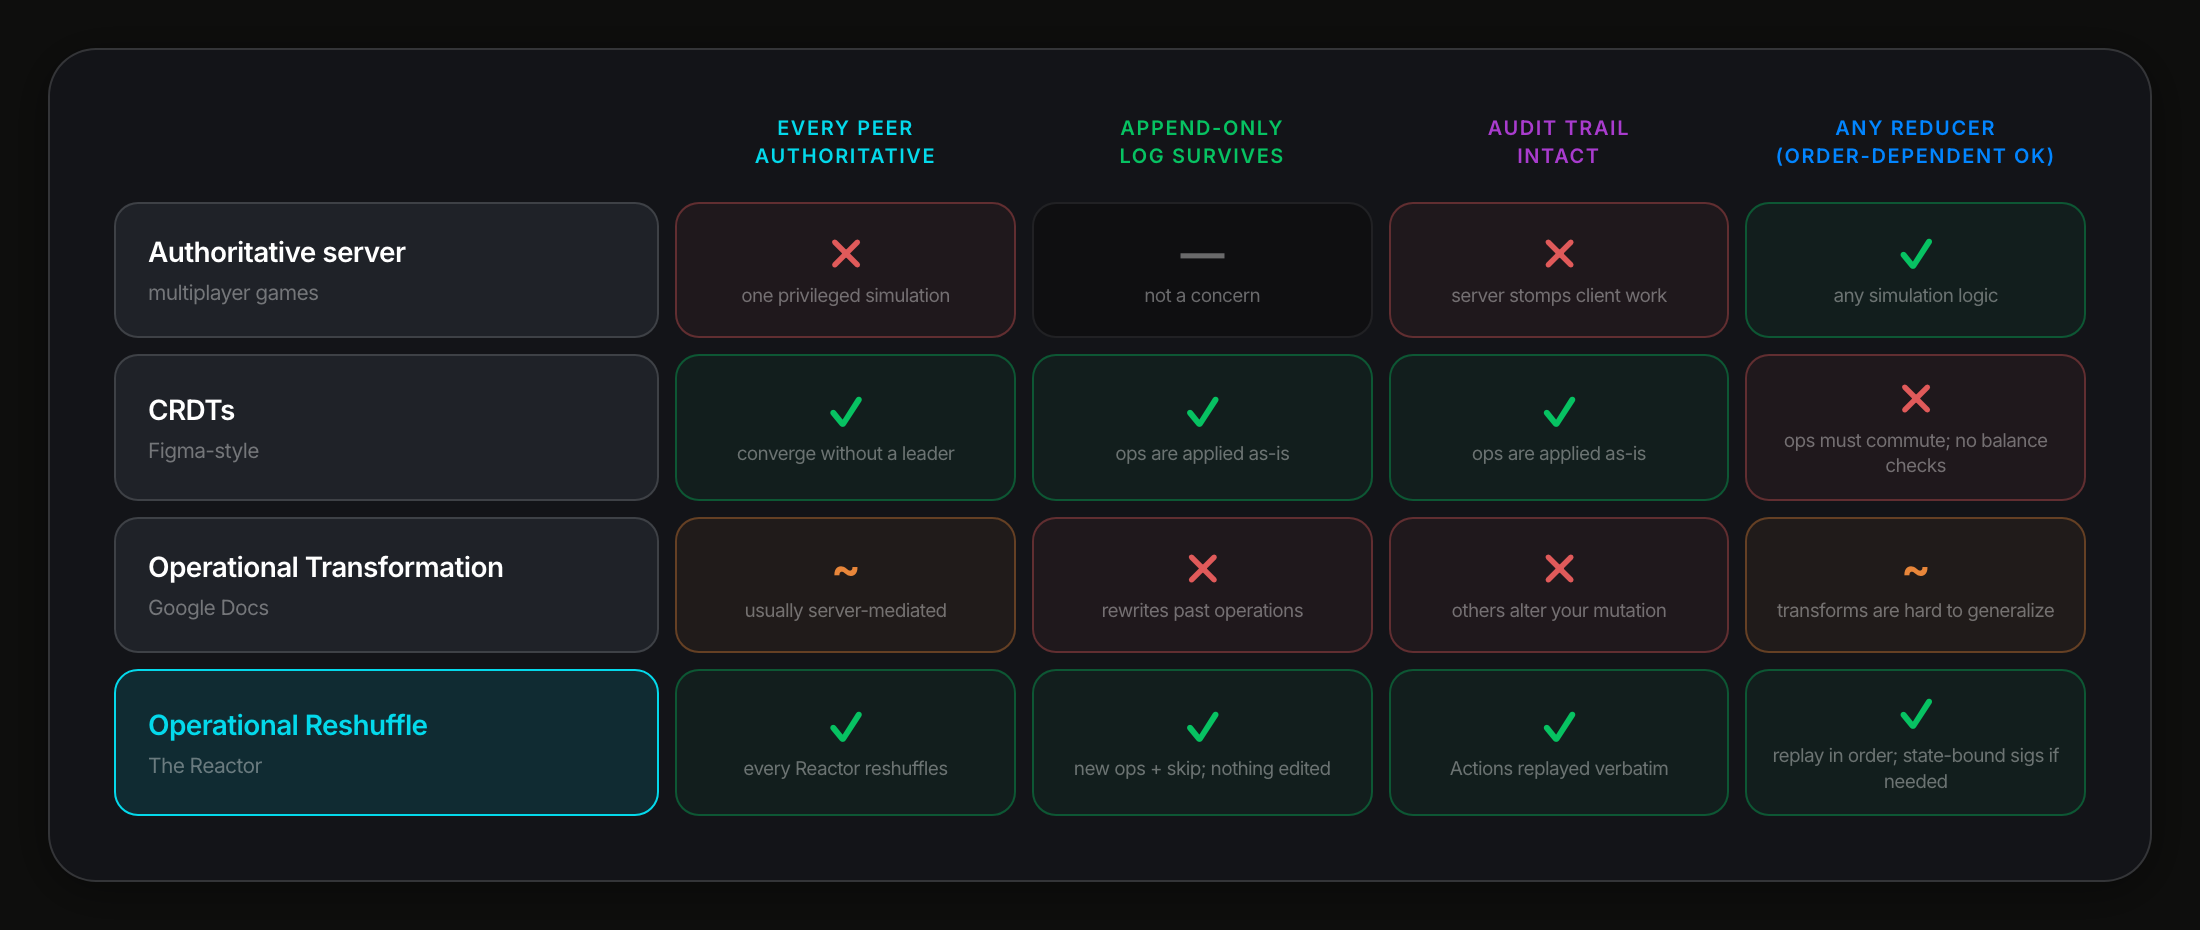
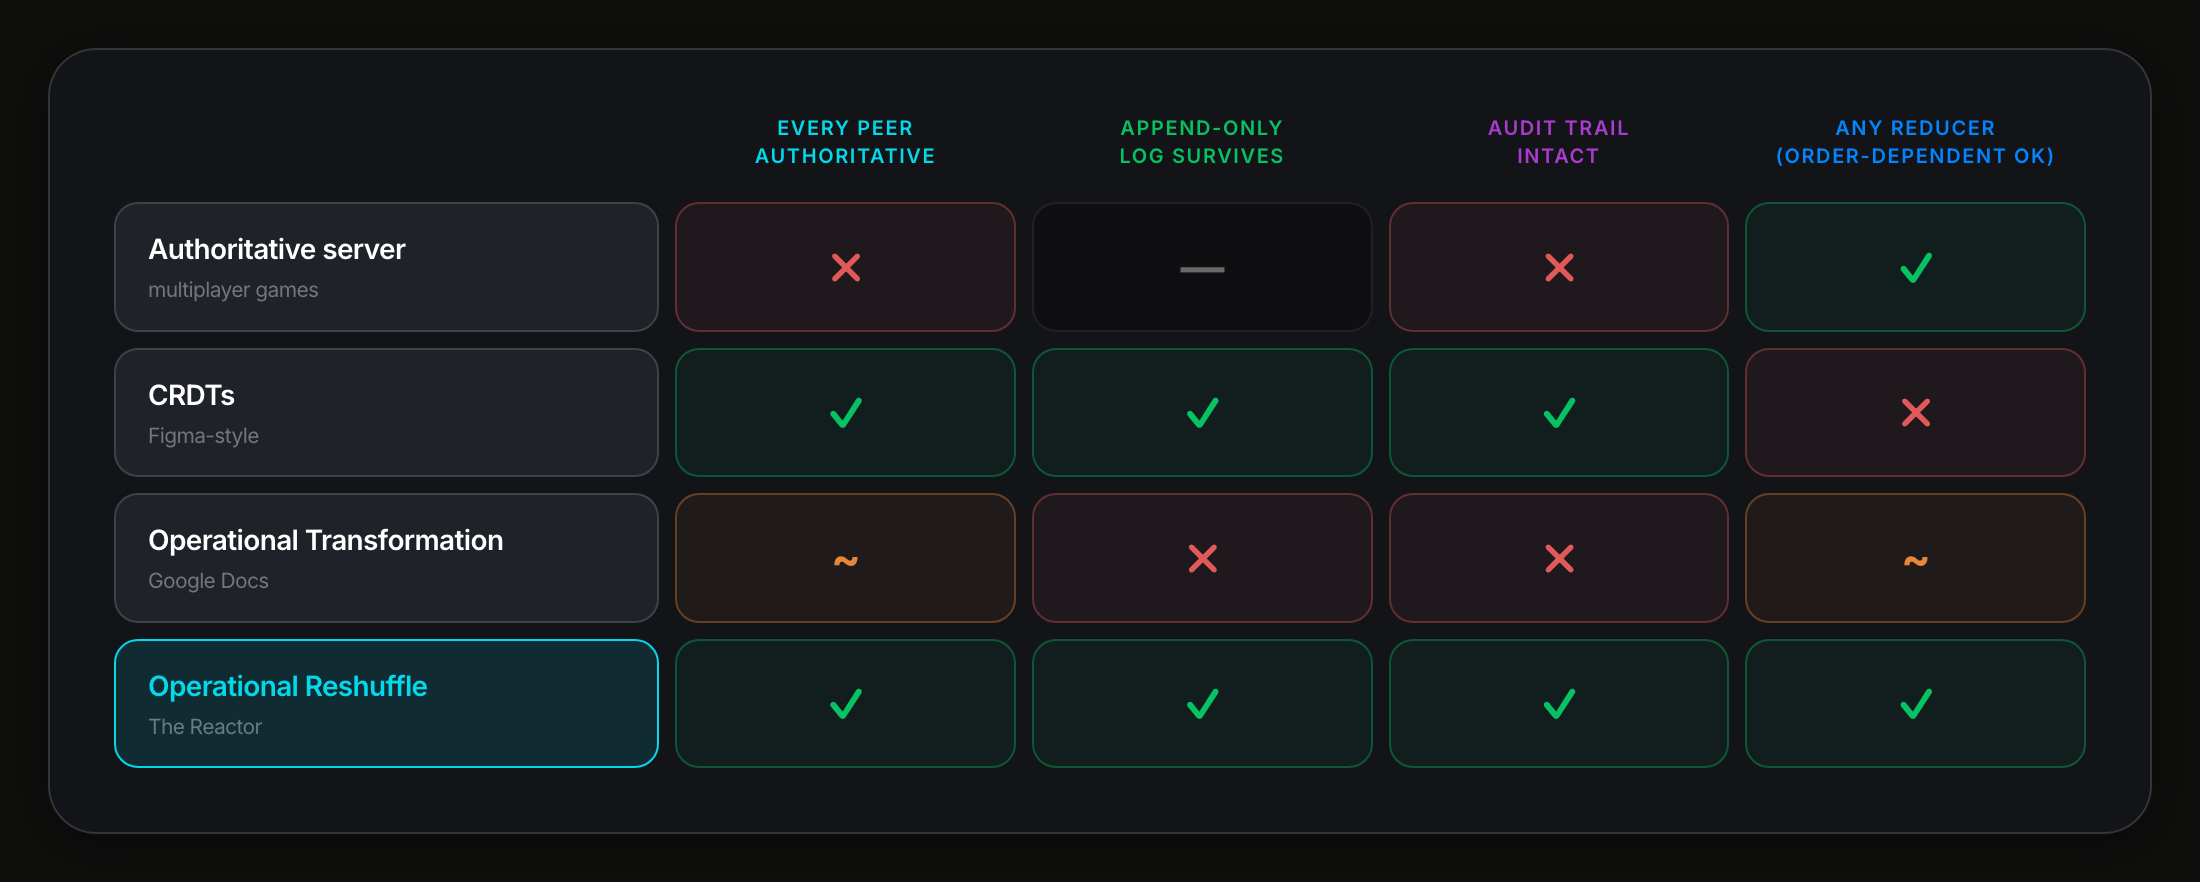
rebuild: scorecard cells carry the verdict only

diff --git a/diagrams/pages/sync-scorecard.html b/diagrams/pages/sync-scorecard.html
@@ -47,10 +47,9 @@
       background: rgba(0,0,0,0.25);
       display: flex; flex-direction: column; align-items: center; justify-content: center; gap: 4px;
       padding: 10px 8px;
-      min-height: 68px;
+      min-height: 52px;
     }
     .cell .g { font-size: 22px; font-weight: var(--font-weight-bold); line-height: 1; }
-    .cell .why { font-size: 9.5px; color: var(--text-muted); text-align: center; line-height: 1.35; }
     .cell.yes .g { color: var(--accent-green); }
     .cell.no  .g { color: #e05a5a; }
     .cell.meh .g { color: #e8863a; }
@@ -72,28 +71,28 @@
           <div class="hd req4">Any reducer<br>(order-dependent ok)</div>
 
           <div class="row-name"><span class="n">Authoritative server</span><span class="s">multiplayer games</span></div>
-          <div class="cell no"><span class="g">✗</span><span class="why">one privileged simulation</span></div>
-          <div class="cell na"><span class="g">—</span><span class="why">not a concern</span></div>
-          <div class="cell no"><span class="g">✗</span><span class="why">server stomps client work</span></div>
-          <div class="cell yes"><span class="g">✓</span><span class="why">any simulation logic</span></div>
+          <div class="cell no"><span class="g">✗</span></div>
+          <div class="cell na"><span class="g">—</span></div>
+          <div class="cell no"><span class="g">✗</span></div>
+          <div class="cell yes"><span class="g">✓</span></div>
 
           <div class="row-name"><span class="n">CRDTs</span><span class="s">Figma-style</span></div>
-          <div class="cell yes"><span class="g">✓</span><span class="why">converge without a leader</span></div>
-          <div class="cell yes"><span class="g">✓</span><span class="why">ops are applied as-is</span></div>
-          <div class="cell yes"><span class="g">✓</span><span class="why">ops are applied as-is</span></div>
-          <div class="cell no"><span class="g">✗</span><span class="why">ops must commute; no balance checks</span></div>
+          <div class="cell yes"><span class="g">✓</span></div>
+          <div class="cell yes"><span class="g">✓</span></div>
+          <div class="cell yes"><span class="g">✓</span></div>
+          <div class="cell no"><span class="g">✗</span></div>
 
           <div class="row-name"><span class="n">Operational Transformation</span><span class="s">Google Docs</span></div>
-          <div class="cell meh"><span class="g">~</span><span class="why">usually server-mediated</span></div>
-          <div class="cell no"><span class="g">✗</span><span class="why">rewrites past operations</span></div>
-          <div class="cell no"><span class="g">✗</span><span class="why">others alter your mutation</span></div>
-          <div class="cell meh"><span class="g">~</span><span class="why">transforms are hard to generalize</span></div>
+          <div class="cell meh"><span class="g">~</span></div>
+          <div class="cell no"><span class="g">✗</span></div>
+          <div class="cell no"><span class="g">✗</span></div>
+          <div class="cell meh"><span class="g">~</span></div>
 
           <div class="row-name winner"><span class="n">Operational Reshuffle</span><span class="s">The Reactor</span></div>
-          <div class="cell yes"><span class="g">✓</span><span class="why">every Reactor reshuffles</span></div>
-          <div class="cell yes"><span class="g">✓</span><span class="why">new ops + skip; nothing edited</span></div>
-          <div class="cell yes"><span class="g">✓</span><span class="why">Actions replayed verbatim</span></div>
-          <div class="cell yes"><span class="g">✓</span><span class="why">replay in order; state-bound sigs if needed</span></div>
+          <div class="cell yes"><span class="g">✓</span></div>
+          <div class="cell yes"><span class="g">✓</span></div>
+          <div class="cell yes"><span class="g">✓</span></div>
+          <div class="cell yes"><span class="g">✓</span></div>
         </div>
       </div>
     </div>
